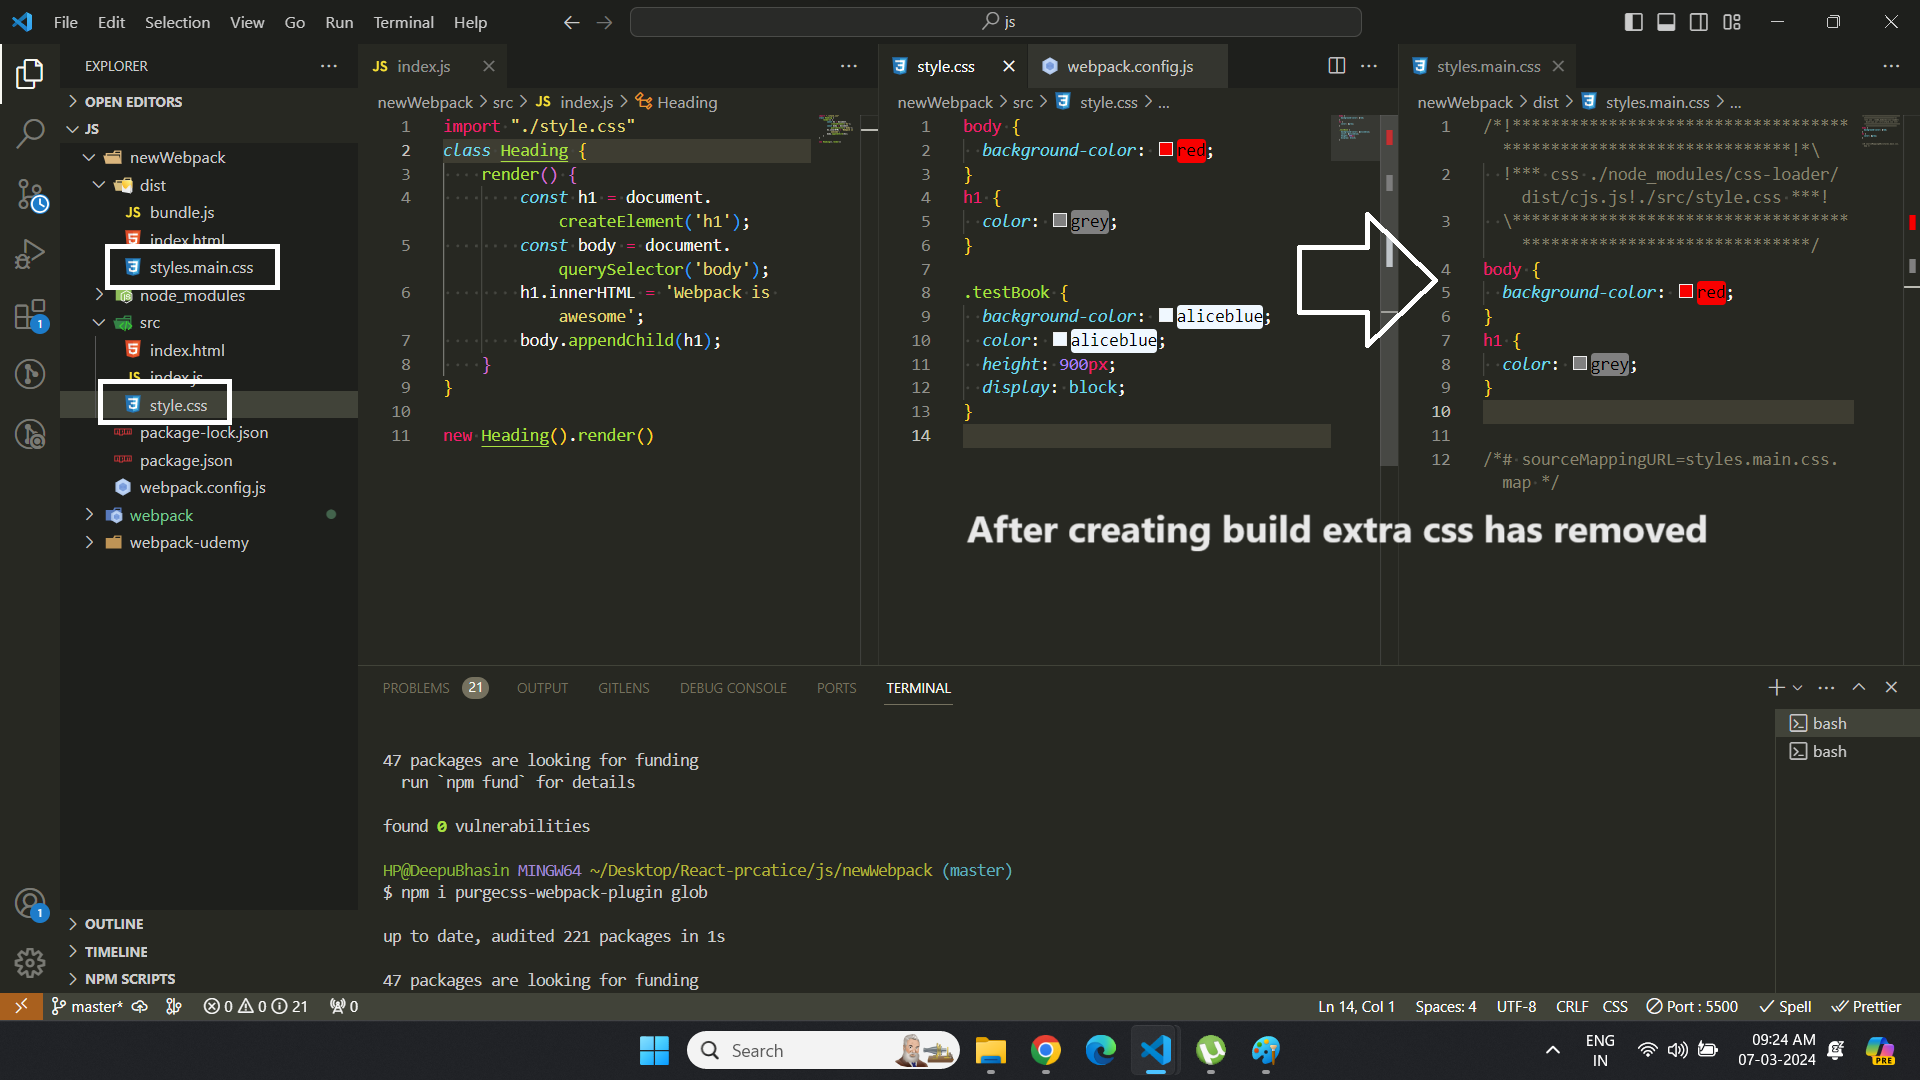
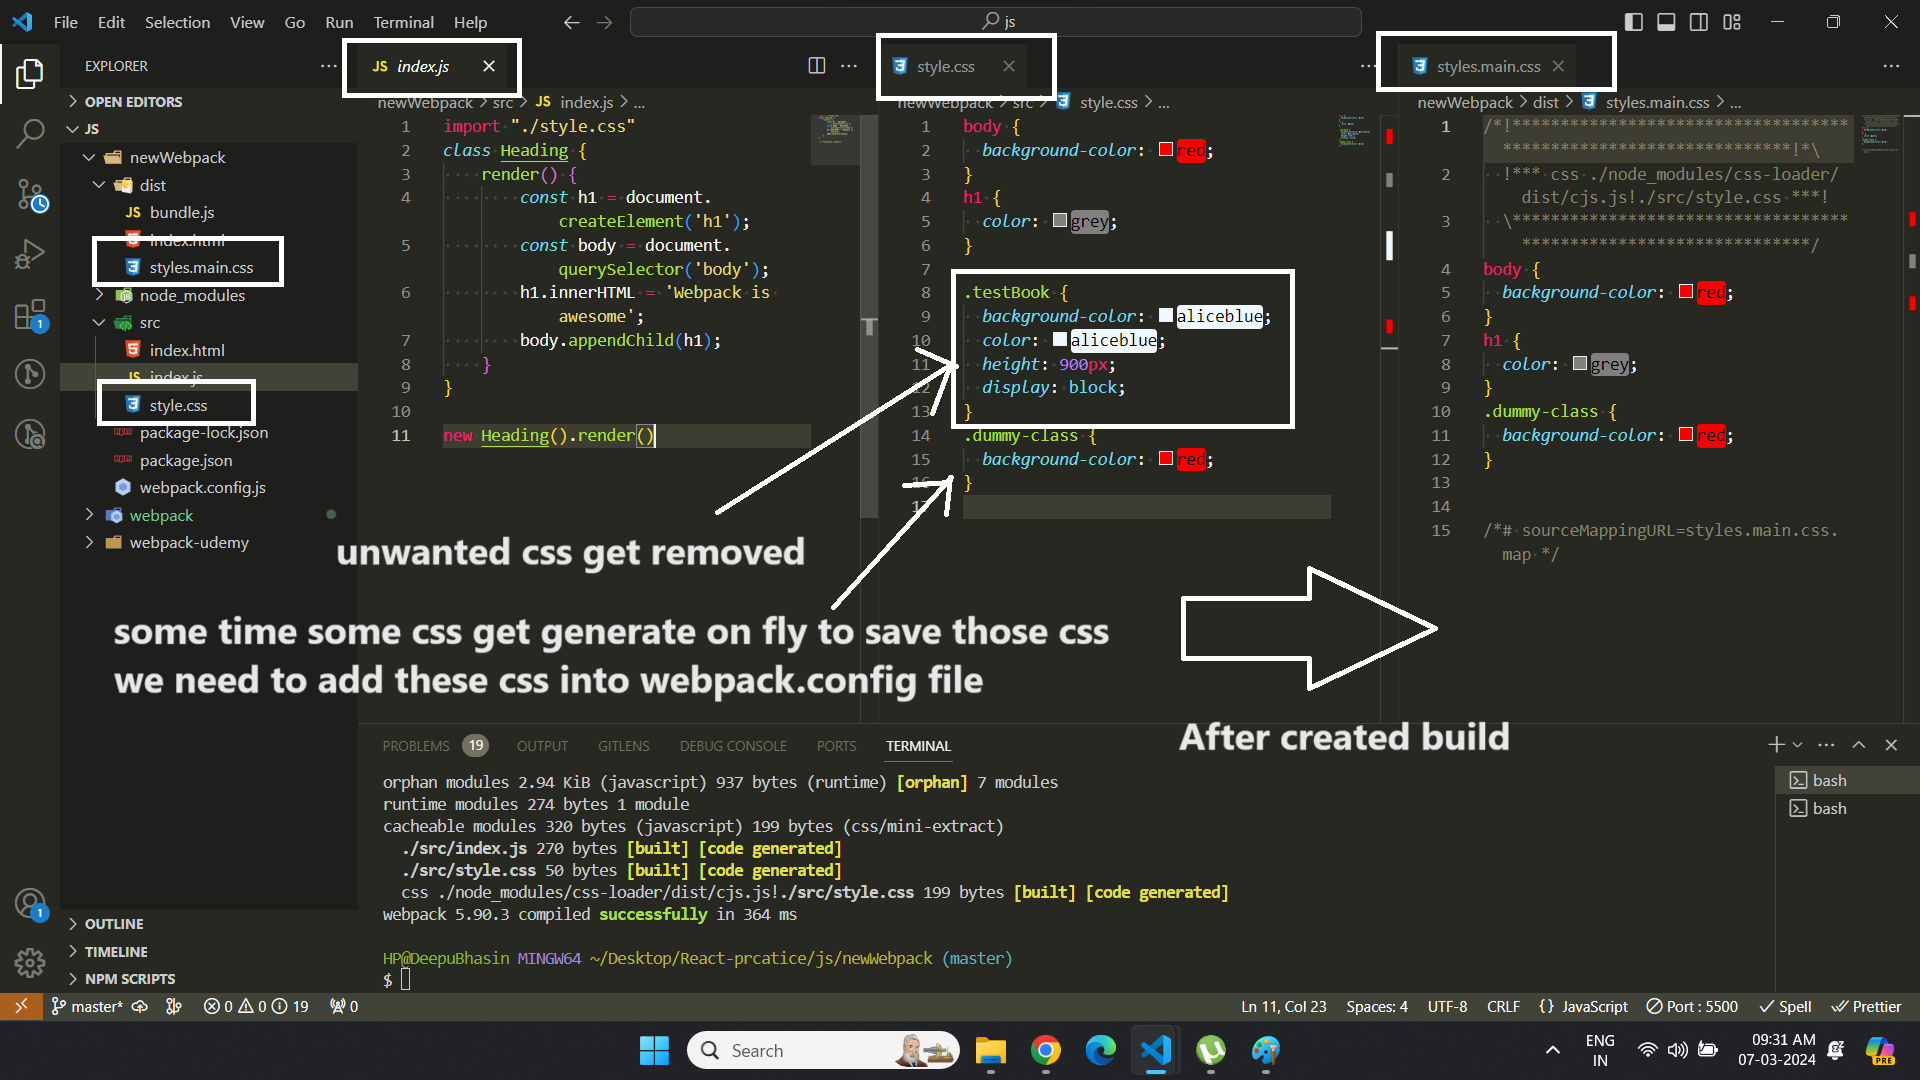
completed tree shaking

diff --git a/10 Bundlers/01-Webpack/_Documentation_Webpack.MD b/10 Bundlers/01-Webpack/_Documentation_Webpack.MD
@@ -2070,6 +2070,8 @@ module.exports = {
         new PurgeCSSPlugin({
             // these settings use as it is
             paths: glob.sync(`${PATHS.src}/**/*`, { nodir: true }),
+            // this parameter is use for to not remove these style classes
+            safelist: ['dummy-class']
         }),
     ],
     module: {
@@ -2082,6 +2084,31 @@ module.exports = {
     },
 }
 ```
+---
+
+## 📘Remove Dead JS (Tree Shaking concept)
+* If we want to use feature we have to use **ES6 syntaxes** like import/export not common js concept
+* We must use **production mode**, Because in production mode unwanted javascript automatically removed
+
+![deadJS](./images/deadjs-1.png)
+
+* To run two webpack files
+```js
+  "scripts": {
+    "build": "webpack --config=webpack.development.js & webpack --config=webpack.production.js"
+  },
+```
+
+* webpack.development.js
+```js
+mode: "development",
+```
+
+* webpack.production.js
+```
+mode: "production",
+```
+
 
 ---
  ## 📘Module-Federation
